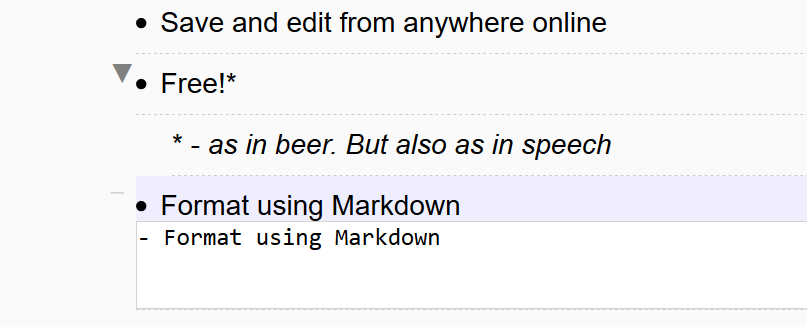
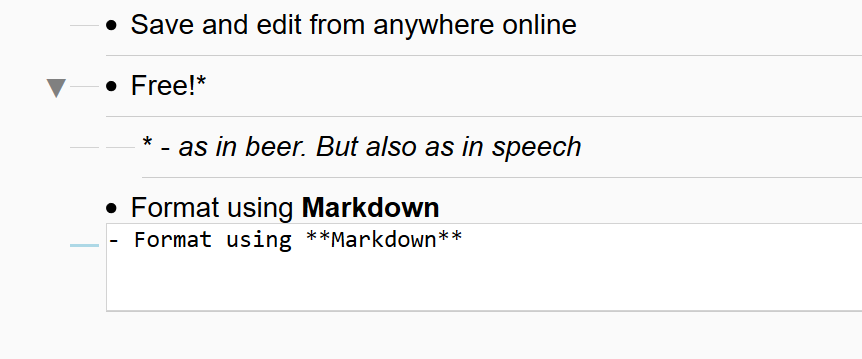
style / layout changes

diff --git a/src/editor/components/document.tsx b/src/editor/components/document.tsx
@@ -4,7 +4,7 @@ import { Map, List } from 'immutable';
 
 import { Error } from '../store/data/error';
 import { Document as DocumentData, getLastItem, ItemDictionary, getSelectedItems } from '../store/data/document';
-import { Item as ItemData, ItemTree, ItemID } from '../store/data/item';
+import { Item as ItemData, ListItem, ItemID } from '../store/data/item';
 
 import Item from './item';
 import DocumentHeader from './documentHeader';
@@ -32,19 +32,6 @@ class Document extends React.Component<ComponentProps> {
 	constructor(props: ComponentProps) {
 		super(props);
 		this.documentDiv = React.createRef<HTMLDivElement>();
-	}
-
-	getDocumentTree(doc: DocumentData, selectedItems: ItemDictionary, nodeID: ItemID): ItemTree {
-		const rootItem = doc.items.get(nodeID);
-
-		const nodeChildren = rootItem.children.map(child => this.getDocumentTree(doc, selectedItems, child));
-
-		return {
-			item: rootItem,
-			focused: doc.focusedItemID == nodeID,
-			selected: selectedItems.has(nodeID),
-			children: nodeChildren.toList()
-		};
 	}
 
 	getTextAreaSelection(): string | undefined {
@@ -265,10 +252,30 @@ class Document extends React.Component<ComponentProps> {
 			});
 	}
 
+	getDocumentList(doc: DocumentData, selectedItems: ItemDictionary, curr: ItemID, indent: number = 0): List<ListItem> {
+		const currItem: ListItem = {
+			item: doc.items.get(curr),
+			focused: doc.focusedItemID == curr,
+			selected: selectedItems.has(curr),
+			indent
+		};
+
+		console.log("FOUND ITEM: " + currItem.item.text);
+
+		const currItemList = List<ListItem>([currItem]);
+
+		return currItem.item.view.collapsed
+			? currItemList
+			: currItem.item.children.reduce(
+				(prev, childID) => prev.concat(this.getDocumentList(doc, selectedItems, childID, indent + 1)).toList(),
+				currItemList
+			);
+	}
+
 	render() {
 		const doc = this.props.document;
 
-		const tree = !doc ? undefined : this.getDocumentTree(doc, getSelectedItems(doc), doc.rootItemID);
+		const list = !doc ? undefined : this.getDocumentList(doc, getSelectedItems(doc), doc.rootItemID);
 
 		document.title = !doc ? "..." : doc.title + " | Seriatim";
 
@@ -278,7 +285,7 @@ class Document extends React.Component<ComponentProps> {
 				{this.props.errors.map((error, index) => <ErrorMessage error={error} index={index} key={index} />)}
 				<div id="documentScrollContainer">
 					<div id="document" tabIndex={0} ref={this.documentDiv}>
-						{doc ? <Item node={tree as ItemTree} key={(tree as ItemTree).item.itemID} /> : <LoadingSpinner />}
+						{list ? list.map(i => <Item node={i} key={i.item.itemID} />) : <LoadingSpinner />}
 					</div>
 				</div>
 			</main>

diff --git a/src/editor/components/item.tsx b/src/editor/components/item.tsx
@@ -1,14 +1,16 @@
 import * as React from 'react';
 import { connect } from 'react-redux';
+
+import { Range } from 'immutable';
 import * as classNames from 'classnames';
 
 import { ApplicationState, DispatchProps, mapDispatchToProps, handleClick } from '../store';
-import { ItemTree, ItemID, ItemType, Item as ItemData } from '../store/data/item';
+import { ListItem, ItemID, ItemType, Item as ItemData } from '../store/data/item';
 
 import ItemContent from './itemContent';
 
 type AttrProps = {
-	node: ItemTree
+	node: ListItem
 }
 
 type StateProps = {
@@ -19,7 +21,7 @@ type ComponentProps = StateProps & AttrProps & DispatchProps;
 
 const Item: React.SFC<ComponentProps> = (props) => {
 	const node = props.node;
-	const { item, children } = props.node;
+	const { item } = props.node;
 	const { text } = item;
 	const { itemType } = item.view;
 
@@ -27,24 +29,20 @@ const Item: React.SFC<ComponentProps> = (props) => {
 
 	const classes = classNames({
 		'Header': itemType == 'Title' || itemType == 'Header',
-		'Item': itemType == 'Item'
+		'Item': itemType == 'Item',
+		'focusedItem': node.focused
 	});
 
 	return (
 		<div className={classes} id={item.itemID}>
+			{Range(0, node.indent).map(i => <div className="itemIndent" key={"itemIndent_" + item.itemID + "_" + i} />)}
 			<div className="collapseExpand">
-				{node.focused && <div className="showFocused">
-					&ndash;
-				</div>}
-				{item.children.count() > 0 && <button className={item.view.collapsed ? "expandButton" : "collapseButton"}
+				{item.view.itemType != "Title" && item.children.count() > 0 && <button className={item.view.collapsed ? "expandButton" : "collapseButton"}
 					onClick={(event) => handleClick(event, () => actions.toggleItemCollapse(item))}>
 					{item.view.collapsed ? "▶" : "▼"}
 				</button>}
 			</div>
 			<ItemContent node={props.node} />
-			{!item.view.collapsed && children.map(child =>
-				<Item {...props} node={child} key={child.item.itemID} />
-			)}
 		</div>
 	);
 };

diff --git a/src/styles/editor.sass b/src/styles/editor.sass
@@ -193,6 +193,8 @@ main
 =PageComponent
 	margin-left: 0.25in
 	position: relative
+	display: flex
+	align-items: center
 
 	$itemContentHoverColor: #EEEEFF
 	.itemContent:hover
@@ -203,18 +205,32 @@ main
 
 	.selectedItem
 		background: $selectedBG
+
+	.itemIndent
+		background: lightgray
+		border: none
+		height: 1px
+		flex: 0 0 .2in
+		margin-right: .05in
+
+.focusedItem .itemIndent
+		background: lightblue !important
+		height: 2px !important
+
 		
 =ItemContent
 	word-wrap: break-word
 	min-height: 24pt
 	padding-top: 6pt
+	flex: auto
 
 	h1, h2, h3, h4, h5, h6
 		margin-bottom: 0
 		margin-top: 0
-
-	h1.title, h1.titleEmpty
-		font-size: 36pt
+	
+	h1.title,h1.titleEmpty
+		font-size: 28pt
+		
 	h1.titleEmpty
 		color: $emptyTextColor
 	
@@ -234,6 +250,13 @@ main
 		font-size: 14pt
 		list-style-position: inside
 
+	blockquote
+		font-size: 12pt
+		p
+			font-size: 12pt
+
+		margin-left: 4ch
+
 	.itemContentRenderedEmpty
 		color: lightgray
 
@@ -242,14 +265,15 @@ main
 
 	.itemContent
 		+ItemContent
-		border-bottom: 1px solid #CCC
+		border-bottom: 1px solid #000
+		margin-bottom: 0.5em
 
 .Item
 	+PageComponent
 
 	.itemContent
 		+ItemContent	
-		border-bottom: 1px dashed #CCC
+		border-bottom: 1px solid #CCC
 
 =ItemButton
 	background: transparent
@@ -273,8 +297,4 @@ main
 	font-family: $monoFont
 	border: 1px solid lightgray
 	font-size: 12pt
-
-.showFocused
-	display: inline-block
-	color: lightgray
-	margin-right: 0.5em
+	overflow: hidden

diff --git a/src/editor/components/itemContent.tsx b/src/editor/components/itemContent.tsx
@@ -6,14 +6,14 @@ import * as classNames from 'classnames';
 
 import { DispatchProps, mapDispatchToProps, handleClick } from '../store';
 
-import { ItemTree } from '../store/data/item';
+import { ListItem } from '../store/data/item';
 
 type StateProps = {
 
 }
 
 type AttrProps = {
-	node: ItemTree
+	node: ListItem
 }
 
 type ComponentProps = StateProps & AttrProps & DispatchProps;
@@ -63,6 +63,15 @@ class ItemContent extends React.Component<ComponentProps> {
 			actions.setFocus(item);
 	}
 
+	resizeTextArea() {
+		const textArea = this.editArea.current;
+		if (!textArea)
+			return;
+
+		textArea.style.height = 'auto';
+		textArea.style.height = (25 + textArea.scrollHeight) + 'px';
+	}
+
 	render() {
 		const node = this.props.node;
 		const item = this.props.node.item;
@@ -86,8 +95,14 @@ class ItemContent extends React.Component<ComponentProps> {
 				}
 				{node.focused &&
 					<textarea id={this.getTextAreaId()} className="editArea"
-						onChange={(event) => actions.updateItemText(item, event.target.value)}
-						onFocus={this.setSelectionRange}
+						onChange={(event) => {
+							this.resizeTextArea();
+							actions.updateItemText(item, event.target.value)
+						}}
+						onFocus={(event) => {
+							this.resizeTextArea();
+							this.setSelectionRange();
+						}}
 						value={item.text}
 						ref={this.editArea}
 					></textarea>

diff --git a/src/editor/store/data/document.ts b/src/editor/store/data/document.ts
@@ -1,4 +1,4 @@
-import { Item, ItemID, ItemTree, newItemFromParent, regenerateID } from './item';
+import { Item, ItemID, newItemFromParent, regenerateID } from './item';
 import { Map, List } from 'immutable';
 
 export type ItemDictionary = Map<ItemID, Item>;
@@ -370,19 +370,6 @@ export function updateItems(document: Document, ...items: Item[]): Document {
 		...document,
 		items: newItems
 	}
-}
-
-export function toItemTree(document: Document, selectedItems: ItemDictionary = getSelectedItems(document), nodeID: ItemID = document.rootItemID): ItemTree {
-	const rootItem = document.items.get(nodeID);
-
-	const nodeChildren = rootItem.children.map(child => toItemTree(document, selectedItems, child));
-
-	return {
-		item: rootItem,
-		focused: document.focusedItemID == nodeID,
-		selected: selectedItems.has(nodeID),
-		children: nodeChildren.toList()
-	};
 }
 
 export function updateItemIDs(document: Document, newIDs: Map<ItemID, ItemID>): Document {

diff --git a/src/index.html b/src/index.html
@@ -12,7 +12,9 @@
 			<div>
 				<h3>
 					<a href="./">
-						<img class="mini_logo" src="assets/logo.png" alt="logo" /> seriatim.io
+						<img class="mini_logo" src="assets/logo.png" alt="logo" /> seriatim
+						<span id="logo_bullet">&#x2022;</span>
+						io
 					</a>
 				</h3>
 			</div>
@@ -26,7 +28,7 @@
 	<main>
 		<div id="login"></div>
 		<noscript>
-			You must have javascript enabled to login.
+			You must have javascript enabled to use Seriatim.
 		</noscript>
 	</main>
 	<footer>

diff --git a/src/styles/main.sass b/src/styles/main.sass
@@ -40,6 +40,9 @@ header
 	background: $aurometalsaurus
 	color: white
 
+	#logo_bullet
+		color: lightgray
+
 	h3
 		img.mini_logo
 			height: 1em
@@ -57,8 +60,10 @@ header
 
 	h2
 		margin-top: 1em
+		margin-bottom: 0.5em
 		text-align: center
-		font-size: 28pt
+		font-size: 36pt
+		font-weight: lighter
 		font-family: Georgia, 'Times New Roman', Times, serif
 
 	img.demo

diff --git a/src/documents/index.html b/src/documents/index.html
@@ -11,7 +11,9 @@
 		<div class="headerContent">
 			<h3>
 				<a href="../">
-					<img class="mini_logo" src="../assets/logo.png" alt="logo" /> seriatim.io
+					<img class="mini_logo" src="../assets/logo.png" alt="logo" /> seriatim
+					<span id="logo_bullet">&#x2022;</span>
+					io
 				</a>
 			</h3>
 		</div>

diff --git a/src/editor/store/data/item.ts b/src/editor/store/data/item.ts
@@ -14,11 +14,11 @@ export type Item = {
 	}
 }
 
-export interface ItemTree {
+export type ListItem = {
 	readonly item: Item,
 	readonly focused: boolean,
 	readonly selected: boolean,
-	readonly children: List<ItemTree>
+	readonly indent: number,
 }
 
 const ID_POOL_SIZE = 1000;
